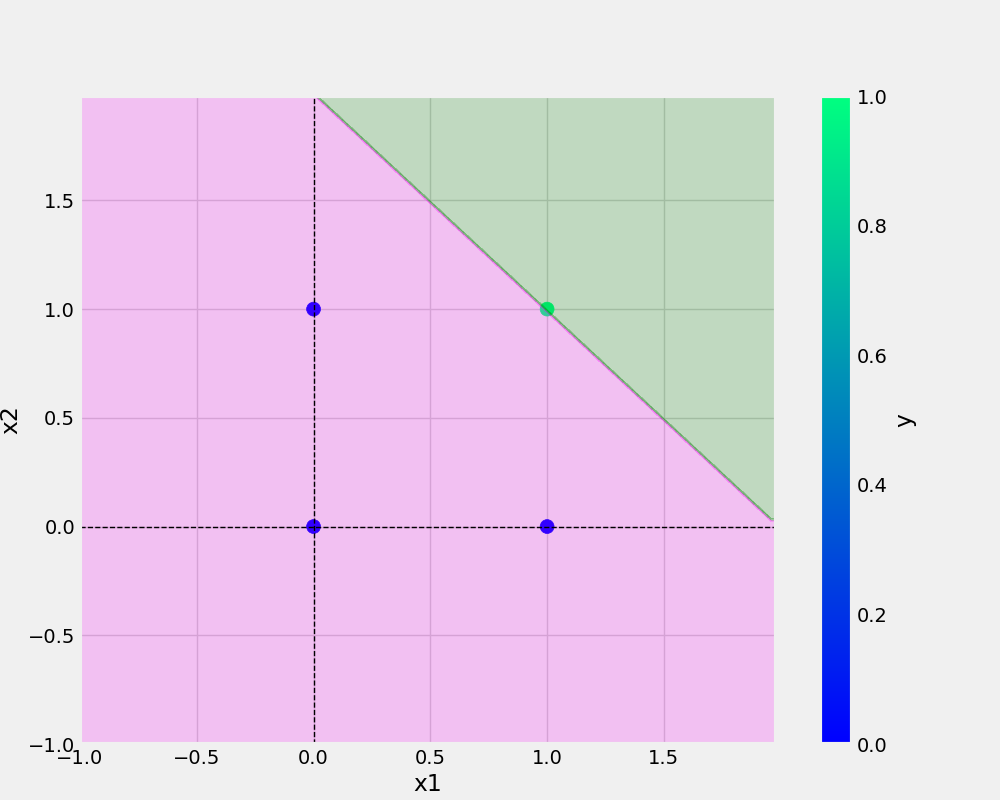
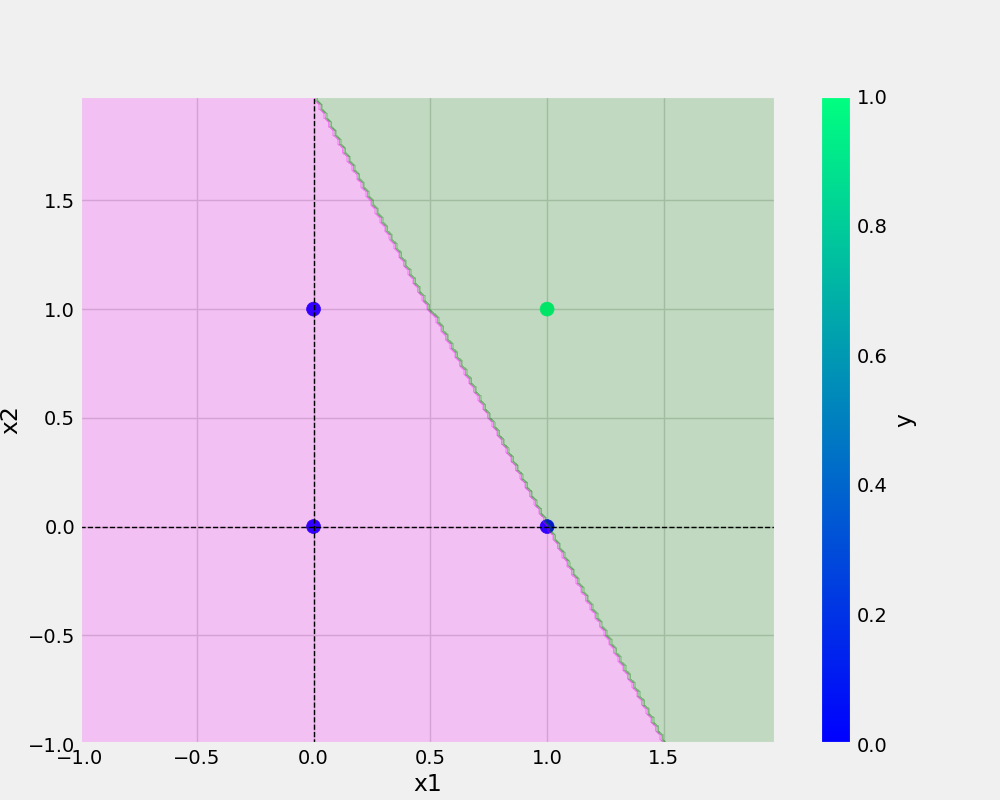
added nand.py and xor.py files

Changed region(s): [[0.31, 0.125, 0.775, 0.9375]]

diff --git a/nand.py b/nand.py
@@ -1,0 +1,46 @@
+from matplotlib.pyplot import plot
+from utils.model import Perceptron
+from utils.all_utils import prepare_data, save_plot, save_model
+import pandas as pd
+import numpy as np
+import logging
+import os
+
+logging_str = "[%(asctime)s: %(levelname)s: %(module)s] %(message)s"
+log_dir = "logs"
+os.makedirs(log_dir, exist_ok=True)
+logging.basicConfig(filename=os.path.join(log_dir,"running_logs.log"), level=logging.INFO, format=logging_str,
+filemode="a")
+
+def main(data, eta, epochs, filename, plotFileName):
+   
+    df = pd.DataFrame(data)
+    logging.info(df)
+    X,y = prepare_data(df)
+    
+    model = Perceptron(eta=eta, epochs=epochs)
+    model.fit(X, y)
+
+    _ = model.total_loss()  #dummy variable _
+
+    save_model(model, filename=filename)
+    save_plot(df, plotFileName, model)
+
+if __name__ == '__main__':  # << entry point
+     
+     NAND = {
+        "x1": [0,0,1,1],
+        "x2": [0,1,0,1],
+        "y": [1,1,1,0],
+     }
+     
+     ETA = 0.3 # 0 and 1
+     EPOCHS = 10
+
+     try:
+        logging.info(">>>>>>>> Starting training >>>>>>>>")
+        main(data=NAND, eta=ETA, epochs=EPOCHS, filename="nand.model", plotFileName="nand.png")
+        logging.info("<<<<<<<< End training <<<<<<<<\n")
+     except Exception as e:
+        logging.exception(e)
+        raise e

diff --git a/xor.py b/xor.py
@@ -1,0 +1,46 @@
+from matplotlib.pyplot import plot
+from utils.model import Perceptron
+from utils.all_utils import prepare_data, save_plot, save_model
+import pandas as pd
+import numpy as np
+import logging
+import os
+
+logging_str = "[%(asctime)s: %(levelname)s: %(module)s] %(message)s"
+log_dir = "logs"
+os.makedirs(log_dir, exist_ok=True)
+logging.basicConfig(filename=os.path.join(log_dir,"running_logs.log"), level=logging.INFO, format=logging_str,
+filemode="a")
+
+def main(data, eta, epochs, filename, plotFileName):
+   
+    df = pd.DataFrame(data)
+    logging.info(df)
+    X,y = prepare_data(df)
+    
+    model = Perceptron(eta=eta, epochs=epochs)
+    model.fit(X, y)
+
+    _ = model.total_loss()  #dummy variable _
+
+    save_model(model, filename=filename)
+    save_plot(df, plotFileName, model)
+
+if __name__ == '__main__':  # << entry point
+     
+     XOR = {
+        "x1": [0,0,1,1],
+        "x2": [0,1,0,1],
+        "y": [0,1,1,0],
+      }
+     
+     ETA = 0.3 # 0 and 1
+     EPOCHS = 10
+
+     try:
+        logging.info(">>>>>>>> Starting training >>>>>>>>")
+        main(data=XOR, eta=ETA, epochs=EPOCHS, filename="xor.model", plotFileName="xor.png")
+        logging.info("<<<<<<<< End training <<<<<<<<\n")
+     except Exception as e:
+        logging.exception(e)
+        raise e

diff --git a/and.py b/and.py
@@ -4,11 +4,18 @@ from utils.all_utils import prepare_data, save_plot, save_model
 import pandas as pd
 import numpy as np
 import logging
+import os
+
+logging_str = "[%(asctime)s: %(levelname)s: %(module)s] %(message)s"
+log_dir = "logs"
+os.makedirs(log_dir, exist_ok=True)
+logging.basicConfig(filename=os.path.join(log_dir,"running_logs.log"), level=logging.INFO, format=logging_str,
+filemode="a")
 
 def main(data, eta, epochs, filename, plotFileName):
    
     df = pd.DataFrame(data)
-    logging.info(df)
+    logging.info(f"This is the actual dataframe \n{df}")
     X,y = prepare_data(df)
     
     model = Perceptron(eta=eta, epochs=epochs)
